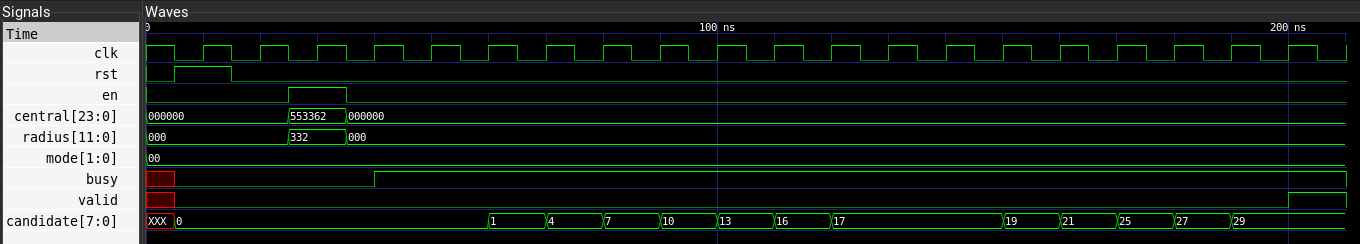
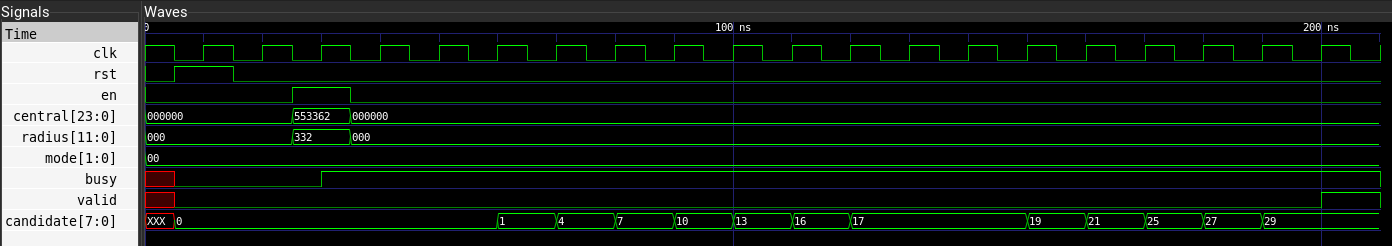
Modify README.md for the new tb and fix some typo

Changed region(s): [[0.0, 0.0287, 1.0, 1.0]]

diff --git a/README.md b/README.md
@@ -8,7 +8,7 @@
 
 ## Introduction
 
-This homework is to design an RTL code to do the counting that satisfy the given types of set logic.
+This homework is to design an RTL code to do the counting of the coordinates that satisfy the given type of set logic.
 
 ### Modes
 
@@ -32,17 +32,17 @@ This homework is to design an RTL code to do the counting that satisfy the given
 
    Since our work would require few cycles to do the calculation, this module would output the coordinate one by one to the processing element
 
-4. **buffer** modulez
+4. **buffer** module
 
    Buffer the input from the testbench. Since the testbench signals only exist in a cycle, we need to buffer the input for the future use
 
 5. **PE** module
 
-   Combinational circuit. The processing element, calculate if the given coordinate is inside of the circles
+   Combinational circuit. The processing element, calculate if the given coordinate is inside of any of the circles
 
 6. **LU** module
 
-   Combinational circuit. The logic unit module. According to the given mode and the output from PE module, see if the coordinate satisfy the condition of such mode
+   Combinational circuit. The logic unit module. According to the given *mode* and the *output from PE* module, see if the coordinate satisfy the condition of such mode
 
 7. **ACC** module
 
@@ -58,12 +58,12 @@ This homework is to design an RTL code to do the counting that satisfy the given
 
 ### Details
 
-1. In this homework, we utilize the hardware with four pairs of the processing units. So that we would need more than one cycles to accomplish the whole calculation. Also, since all the signals from the testbench only exist in one cycle, we implemented a sequential module **Buffer** so that the necessary inputs are able to be hold and pass to other elements when needed.
-2. We implemented a **COORD_GEN** module to keep sending the modules to PE module. When the `coord_en` signal is given, the module will keep sending the coordinates to the PE. Each COORD_GEN module is responsible for sending two rows of the grid, i.e. 16 coordinates.
+1. In this homework, we utilized the hardware with four pairs of the processing units. So that we would need more than one cycles to accomplish the whole calculation. Also, since all the signals from the testbench only exist in one cycle, we implemented a sequential module **Buffer** so that the necessary inputs are able to be hold and pass to other elements when needed.
+2. We implemented a **coord_gen** module to keep sending the coordinates to PE module. When the `coord_en` signal is given, the module will keep sending the coordinates to the PE. Each coord_gen instance is responsible for sending two rows of the grid, i.e. 16 coordinates.
 
-3. The main calculation and logic circuits are based on the combinational modules: **PE** and **LU**. The PE takes the coordinate and the circles information as input, and output the 3-bit result which indicates whether the coordinate is inside the A, B or C circle. The calculation is based on the calculation of $(X_c - X)^2+(Y_c-Y)^2 <= R^2$. We do the subtraction to see if the spot is inside the circle, if the result is negative, then the spot should be inside the circle. And for simplicity, we directly extract the MSB as the output of this module.
+3. The main calculation and logic circuits are based on the combinational modules: **PE** and **LU**. The PE takes the coordinate and the circles information as input, and output the 3-bit result which indicates whether the coordinate is inside the A, B or C circle. The calculation is based on the calculation of (Xc - X)^2+(Yc - Y)^2 <= R^2. We do the subtraction to see if the spot is inside the circle, if the result is negative, then the spot should be inside the circle. And for simplicity, we directly extract the MSB as the output of this module.
 
-1. Then we pass these outputs to the LU module to do the further calculations. The input will be connected to the module's combinational circuits that are responsible for the four modes. We can therefore use the mode input as a selector to choose which output should we pass to the next module.
+1. Then we pass these outputs to the **LU** module to do the further calculations. The input will be connected to the combinational circuits that are responsible for the four modes. We can therefore use the mode input as a selector to choose which output should we pass to the next module.
 2. The four LUs will pass there results to the accumulator **ACC**. After the `acc_en` signal is high, the accumulator will start accumulating the results from the LUs. It would keep accumulating until the controller lower the `acc_en` signal. After the accumulation is finished, the result will be the final output candidates.
 
 
@@ -103,6 +103,10 @@ These simulations are based on the same circle placement and test with different
    ![mode0](./images/mode3.png)
 
    Candidate result = 14
+
+5. Simulation for the testbench
+
+   ![](./images/tb.png)
 
 From the results above we could find out that all  the modes are correct in our circuit.
 
